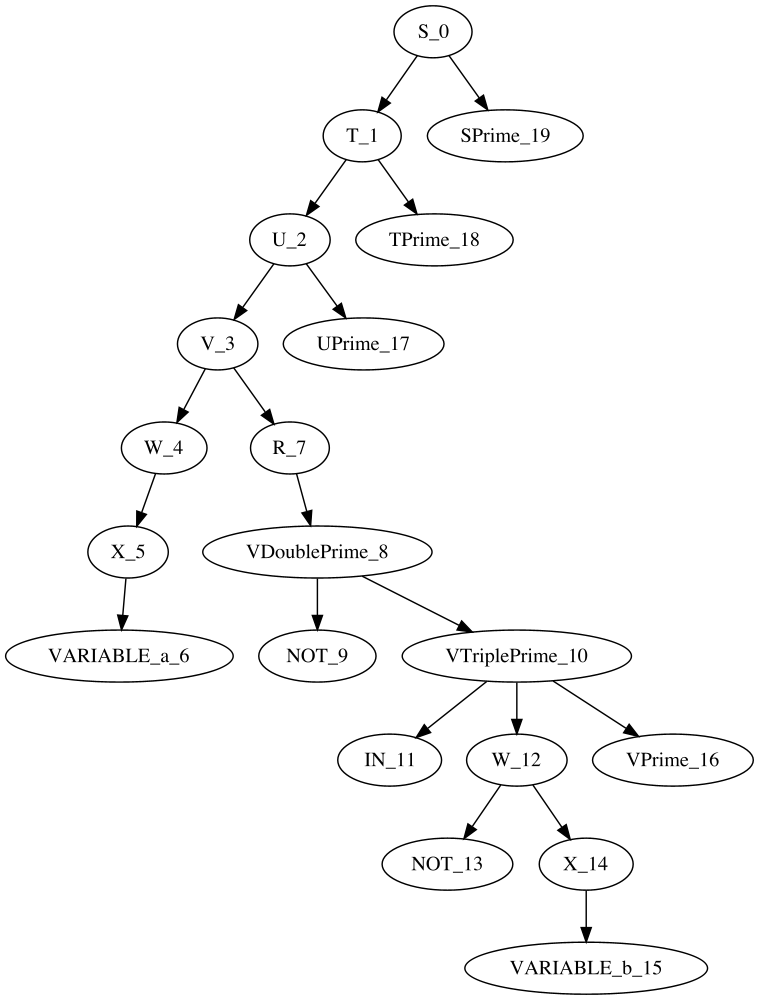
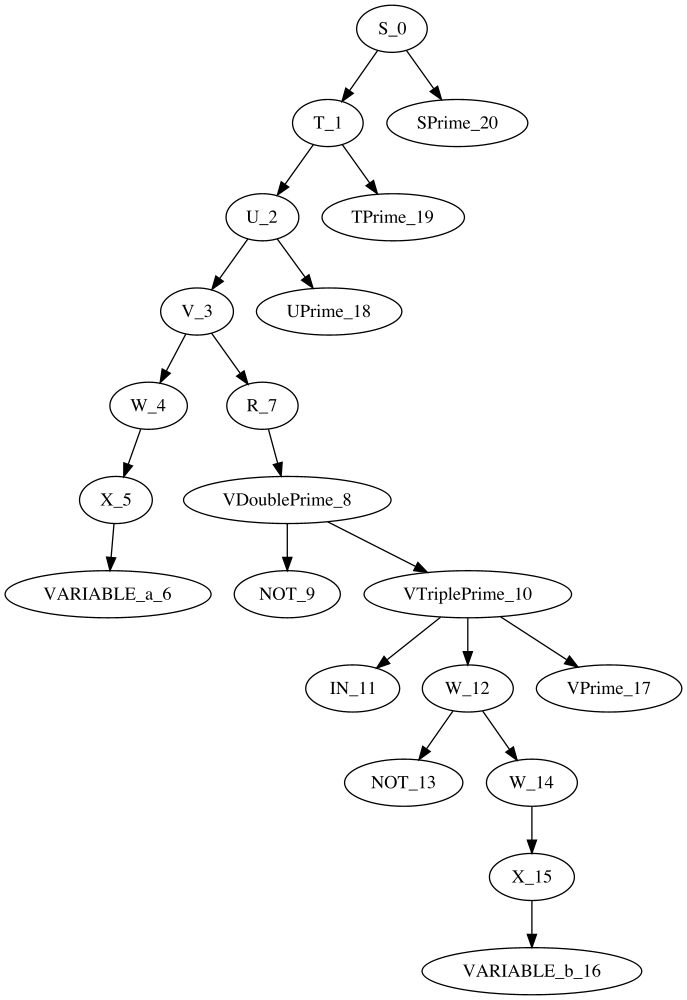
not not

diff --git a/src/main/java/com/daviondk/mt/Parser.java b/src/main/java/com/daviondk/mt/Parser.java
@@ -140,7 +140,7 @@ public class Parser {
     private Tree W() {
         switch (lexicalAnalyzer.currentToken()) {
             case NOT:
-                return new Tree("W", List.of(not(), X()));
+                return new Tree("W", List.of(not(), W()));
             case VARIABLE:
             case LPAREN:
                 return new Tree("W", Collections.singletonList(X()));

diff --git a/src/test/java/com/daviondk/mt/SetLogicTest.java b/src/test/java/com/daviondk/mt/SetLogicTest.java
@@ -48,4 +48,10 @@ public class SetLogicTest {
         Tree tree = parser.parse("a xor b and c in not (d or e)");
         visualizer.visualize(tree, "priority.png", 1000);
     }
+
+    @Test
+    public void notNot() {
+        Tree tree = parser.parse("not not a");
+        visualizer.visualize(tree, "notNot.png", 1000);
+    }
 }
